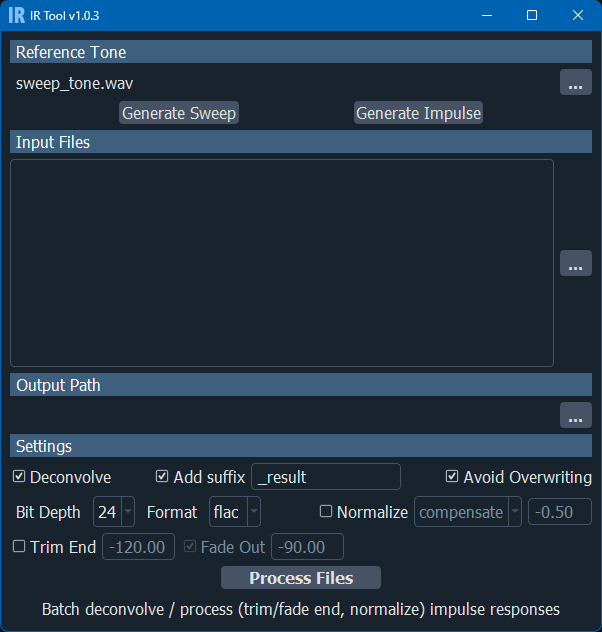
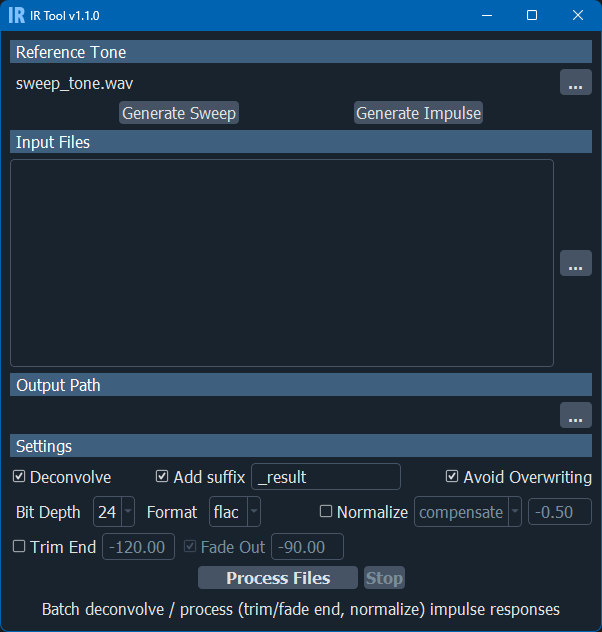
Added stop button

Changed region(s): [[0.3289, 0.8718, 0.6877, 0.932], [0.1196, 0.0, 0.1495, 0.0301]]

diff --git a/UI/ir_tool.py b/UI/ir_tool.py
@@ -16,9 +16,6 @@ class Ui_ir_tool_mw(object):
         ir_tool_mw.setObjectName("ir_tool_mw")
         ir_tool_mw.resize(600, 600)
         font = QtGui.QFont()
-        font.setPointSize(10)
-        font.setStrikeOut(False)
-        font.setStyleStrategy(QtGui.QFont.PreferAntialias)
         ir_tool_mw.setFont(font)
         ir_tool_mw.setLocale(QtCore.QLocale(QtCore.QLocale.English, QtCore.QLocale.UnitedStates))
         self.centralwidget = QtWidgets.QWidget(ir_tool_mw)
@@ -49,11 +46,7 @@ class Ui_ir_tool_mw(object):
         self.horizontalLayout.addWidget(self.ref_tone_path_l)
         self.set_ref_tone_tb = QtWidgets.QToolButton(self.centralwidget)
         font = QtGui.QFont()
-        font.setPointSize(10)
         font.setBold(True)
-        font.setWeight(75)
-        font.setStrikeOut(False)
-        font.setStyleStrategy(QtGui.QFont.PreferAntialias)
         self.set_ref_tone_tb.setFont(font)
         self.set_ref_tone_tb.setObjectName("set_ref_tone_tb")
         self.horizontalLayout.addWidget(self.set_ref_tone_tb)
@@ -104,11 +97,7 @@ class Ui_ir_tool_mw(object):
         self.horizontalLayout_2.addWidget(self.files_lw)
         self.set_files_tb = QtWidgets.QToolButton(self.centralwidget)
         font = QtGui.QFont()
-        font.setPointSize(10)
         font.setBold(True)
-        font.setWeight(75)
-        font.setStrikeOut(False)
-        font.setStyleStrategy(QtGui.QFont.PreferAntialias)
         self.set_files_tb.setFont(font)
         self.set_files_tb.setObjectName("set_files_tb")
         self.horizontalLayout_2.addWidget(self.set_files_tb)
@@ -137,11 +126,7 @@ class Ui_ir_tool_mw(object):
         self.horizontalLayout_3.addWidget(self.output_path_l)
         self.set_output_path_tb = QtWidgets.QToolButton(self.centralwidget)
         font = QtGui.QFont()
-        font.setPointSize(10)
         font.setBold(True)
-        font.setWeight(75)
-        font.setStrikeOut(False)
-        font.setStyleStrategy(QtGui.QFont.PreferAntialias)
         self.set_output_path_tb.setFont(font)
         self.set_output_path_tb.setObjectName("set_output_path_tb")
         self.horizontalLayout_3.addWidget(self.set_output_path_tb)
@@ -320,6 +305,8 @@ class Ui_ir_tool_mw(object):
         self.verticalLayout.addLayout(self.horizontalLayout_6)
         self.horizontalLayout_8 = QtWidgets.QHBoxLayout()
         self.horizontalLayout_8.setObjectName("horizontalLayout_8")
+        spacerItem4 = QtWidgets.QSpacerItem(40, 20, QtWidgets.QSizePolicy.Expanding, QtWidgets.QSizePolicy.Minimum)
+        self.horizontalLayout_8.addItem(spacerItem4)
         self.process_pb = QtWidgets.QPushButton(self.centralwidget)
         sizePolicy = QtWidgets.QSizePolicy(QtWidgets.QSizePolicy.Fixed, QtWidgets.QSizePolicy.Fixed)
         sizePolicy.setHorizontalStretch(0)
@@ -333,6 +320,21 @@ class Ui_ir_tool_mw(object):
         self.process_pb.setDefault(False)
         self.process_pb.setObjectName("process_pb")
         self.horizontalLayout_8.addWidget(self.process_pb)
+        self.stop_pb = QtWidgets.QPushButton(self.centralwidget)
+        self.stop_pb.setEnabled(False)
+        sizePolicy = QtWidgets.QSizePolicy(QtWidgets.QSizePolicy.Fixed, QtWidgets.QSizePolicy.Fixed)
+        sizePolicy.setHorizontalStretch(0)
+        sizePolicy.setVerticalStretch(0)
+        sizePolicy.setHeightForWidth(self.stop_pb.sizePolicy().hasHeightForWidth())
+        self.stop_pb.setSizePolicy(sizePolicy)
+        font = QtGui.QFont()
+        font.setBold(True)
+        self.stop_pb.setFont(font)
+        self.stop_pb.setDefault(False)
+        self.stop_pb.setObjectName("stop_pb")
+        self.horizontalLayout_8.addWidget(self.stop_pb)
+        spacerItem5 = QtWidgets.QSpacerItem(40, 20, QtWidgets.QSizePolicy.Expanding, QtWidgets.QSizePolicy.Minimum)
+        self.horizontalLayout_8.addItem(spacerItem5)
         self.verticalLayout.addLayout(self.horizontalLayout_8)
         self.progress_pb = QtWidgets.QProgressBar(self.centralwidget)
         self.progress_pb.setStyleSheet("QProgressBar{border: none;}")
@@ -401,3 +403,4 @@ class Ui_ir_tool_mw(object):
         self.fadeout_cb.setText(_translate("ir_tool_mw", "Fade Out"))
         self.fadeout_db_dsb.setToolTip(_translate("ir_tool_mw", "Volume treshold (in dB) from which a log fade out is applied preventing abrut end"))
         self.process_pb.setText(_translate("ir_tool_mw", "Process Files"))
+        self.stop_pb.setText(_translate("ir_tool_mw", "Stop"))

diff --git a/ir_tool_UI.py b/ir_tool_UI.py
@@ -133,6 +133,7 @@ class IrToolUi(gui.Ui_ir_tool_mw, QtWidgets.QMainWindow):
 
         # Process button
         self.process_pb.clicked.connect(partial(self.as_worker, self.do_deconvolve))
+        self.stop_pb.clicked.connect(self.stop_process)
 
         # Custom events
         self.files_lw.keyPressEvent = self.key_del_lw_items_event
@@ -264,6 +265,9 @@ class IrToolUi(gui.Ui_ir_tool_mw, QtWidgets.QMainWindow):
             message_callback.emit('No reference tone provided')
             return False
 
+        self.process_pb.setEnabled(False)
+        self.stop_pb.setEnabled(True)
+
         range_callback.emit(0, count)
         progress_callback.emit(0)
         message_callback.emit('%p%')
@@ -294,6 +298,8 @@ class IrToolUi(gui.Ui_ir_tool_mw, QtWidgets.QMainWindow):
         done = 0
         for i, f in enumerate(files):
             if worker.is_stopped():
+                progress_callback.emit(0)
+                message_callback.emit('Process Interrupted')
                 return False
 
             conv, conv_sr = sf.read(f)
@@ -307,7 +313,7 @@ class IrToolUi(gui.Ui_ir_tool_mw, QtWidgets.QMainWindow):
             p = Path(f)
             parent = self.output_path_l.fullPath() or p.parent
             stem = p.stem
-            filepath = Path(parent, f'{stem}{suffix}.{ext}')
+            filepath = Path(parent) / f'{stem}{suffix}.{ext}'
 
             if self.no_overwriting_cb.isChecked() and str(filepath) == f:
                 resolve_overwriting(f, mode='dir', dir_name='backup_', do_move=True)
@@ -327,7 +333,7 @@ class IrToolUi(gui.Ui_ir_tool_mw, QtWidgets.QMainWindow):
                     ir = compensate_ir(ir, mode='rms', sr=conv_sr)
 
             # Soundfile only recognizes aiff and not aif when writing
-            sf_path = (filepath, f'{filepath}f')[ext == 'aif']
+            sf_path = (filepath, filepath.with_suffix('.aiff'))[ext == 'aif']
             try:
                 sf.write(str(sf_path), ir, conv_sr, subtype=subtypes[bit_depth])
                 if sf_path != filepath:
@@ -346,7 +352,18 @@ class IrToolUi(gui.Ui_ir_tool_mw, QtWidgets.QMainWindow):
 
         self.play_notification()
 
+        self.process_pb.setEnabled(True)
+        self.stop_pb.setEnabled(False)
+
         return True
+
+    def stop_process(self):
+        for worker in self.active_workers:
+            if worker.running:
+                worker.request_stop()
+
+        self.process_pb.setEnabled(True)
+        self.stop_pb.setEnabled(False)
 
     def browse_files(self):
         self.refresh_lw_items()

diff --git a/__init__.py b/__init__.py
@@ -6,4 +6,4 @@
     :date: 2024.05
 """
 
-__version__ = '1.0.4'
+__version__ = '1.1.0'
